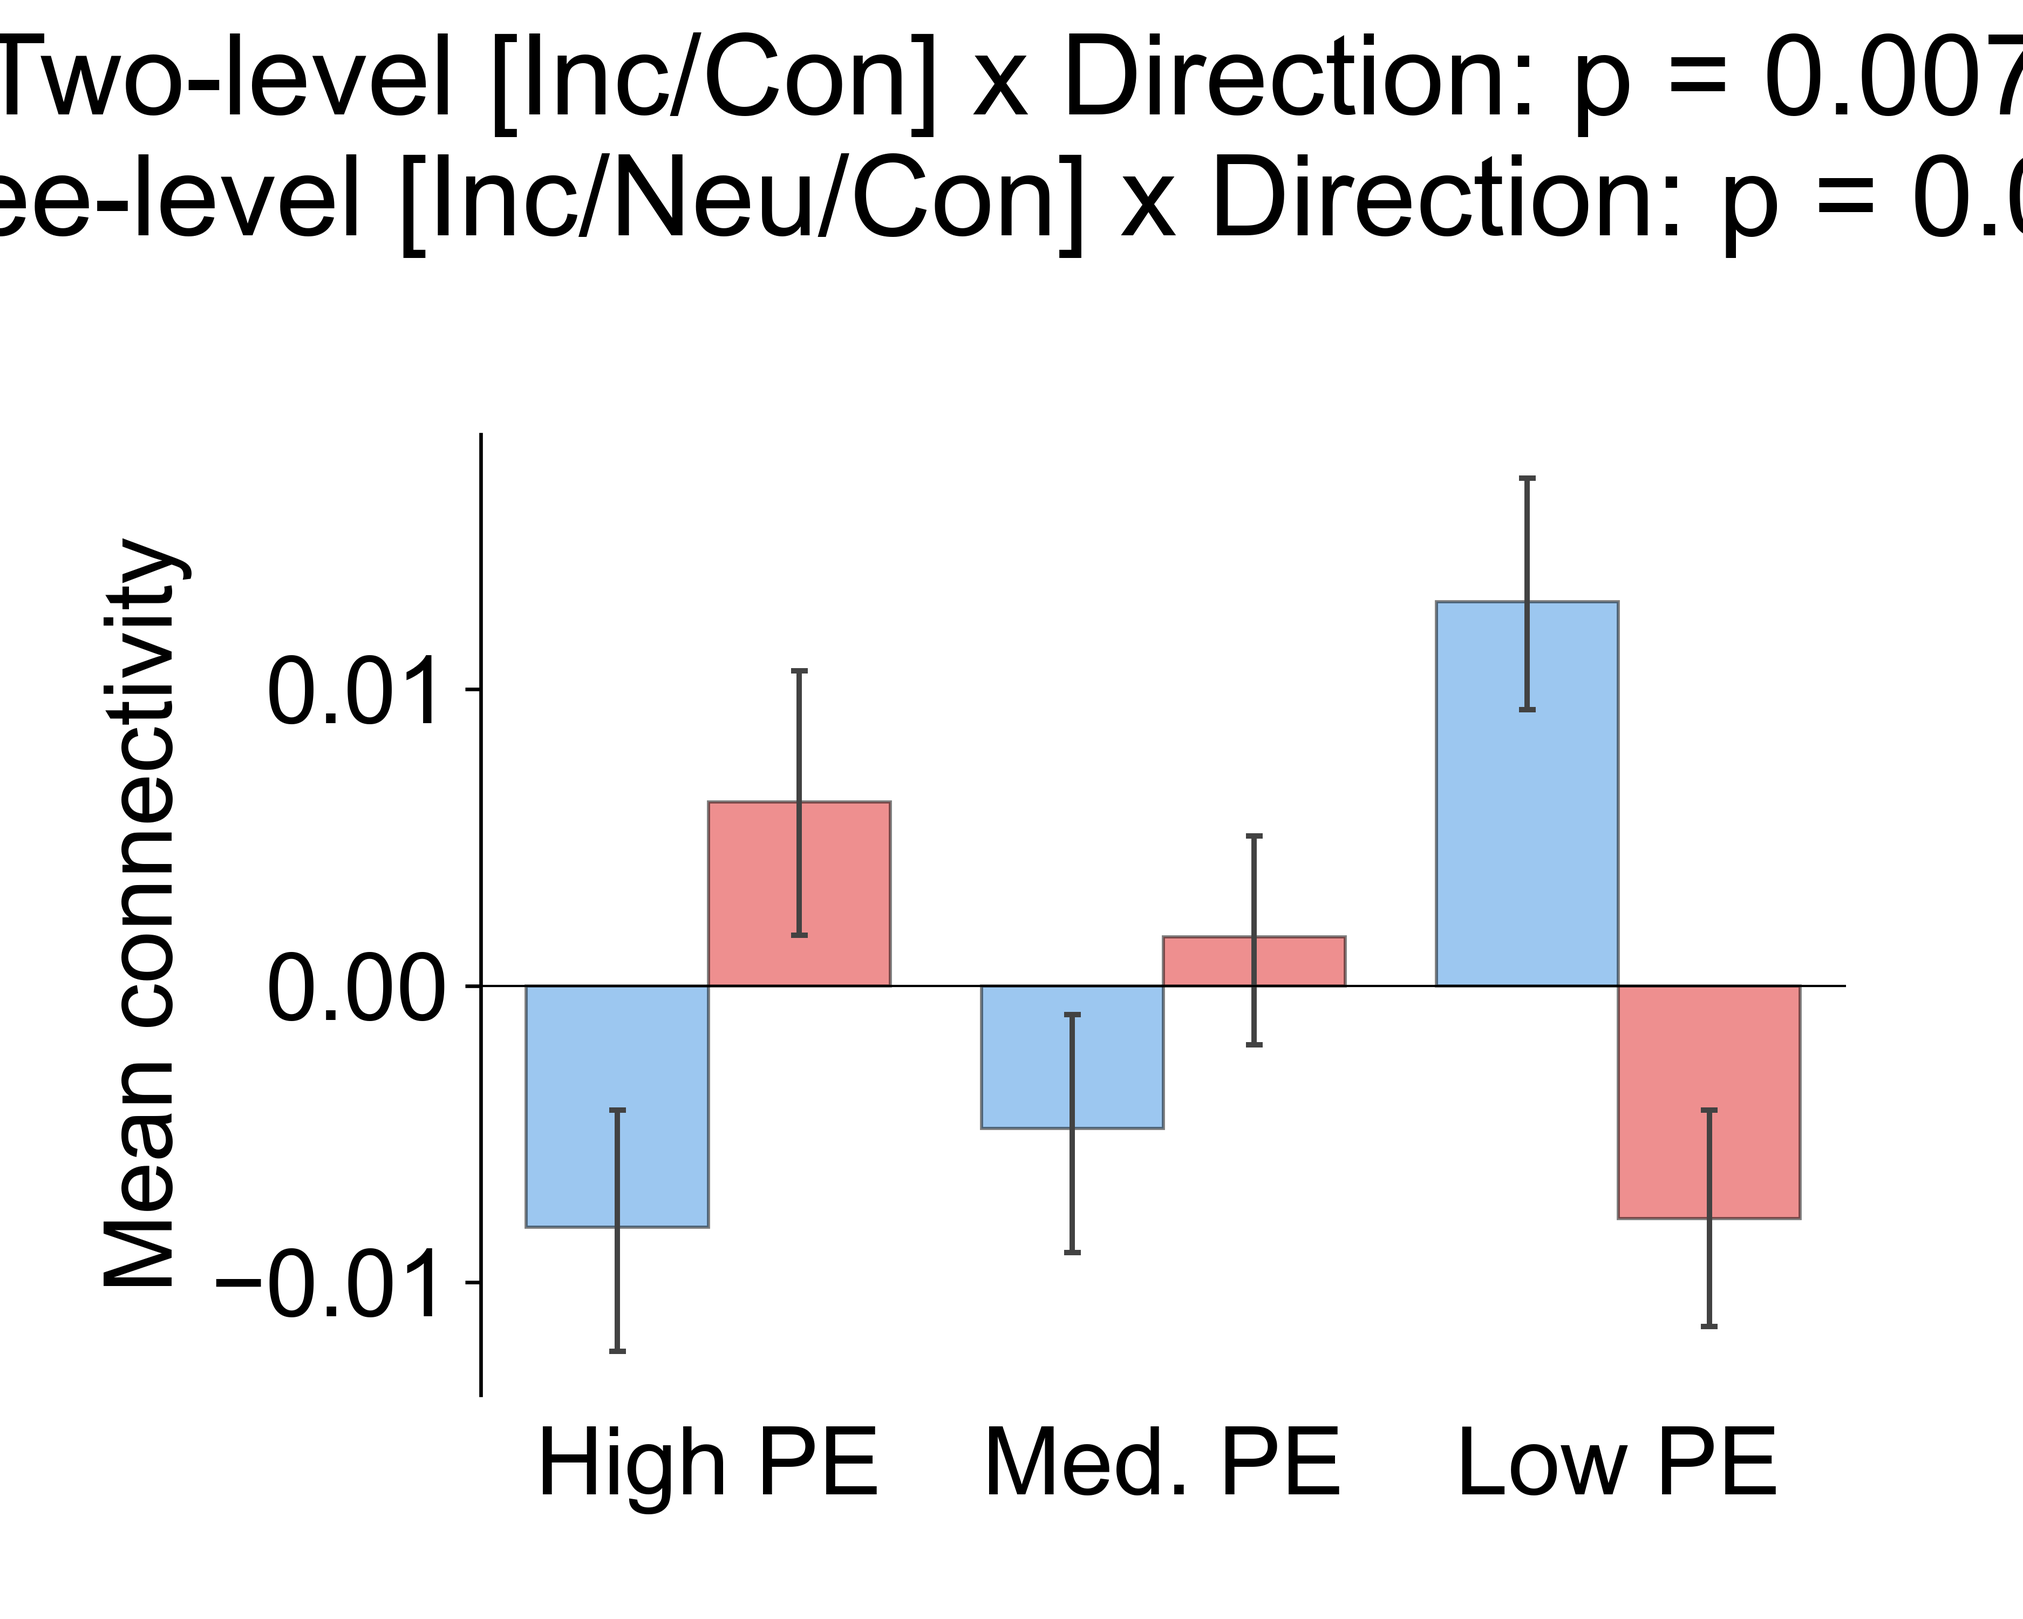
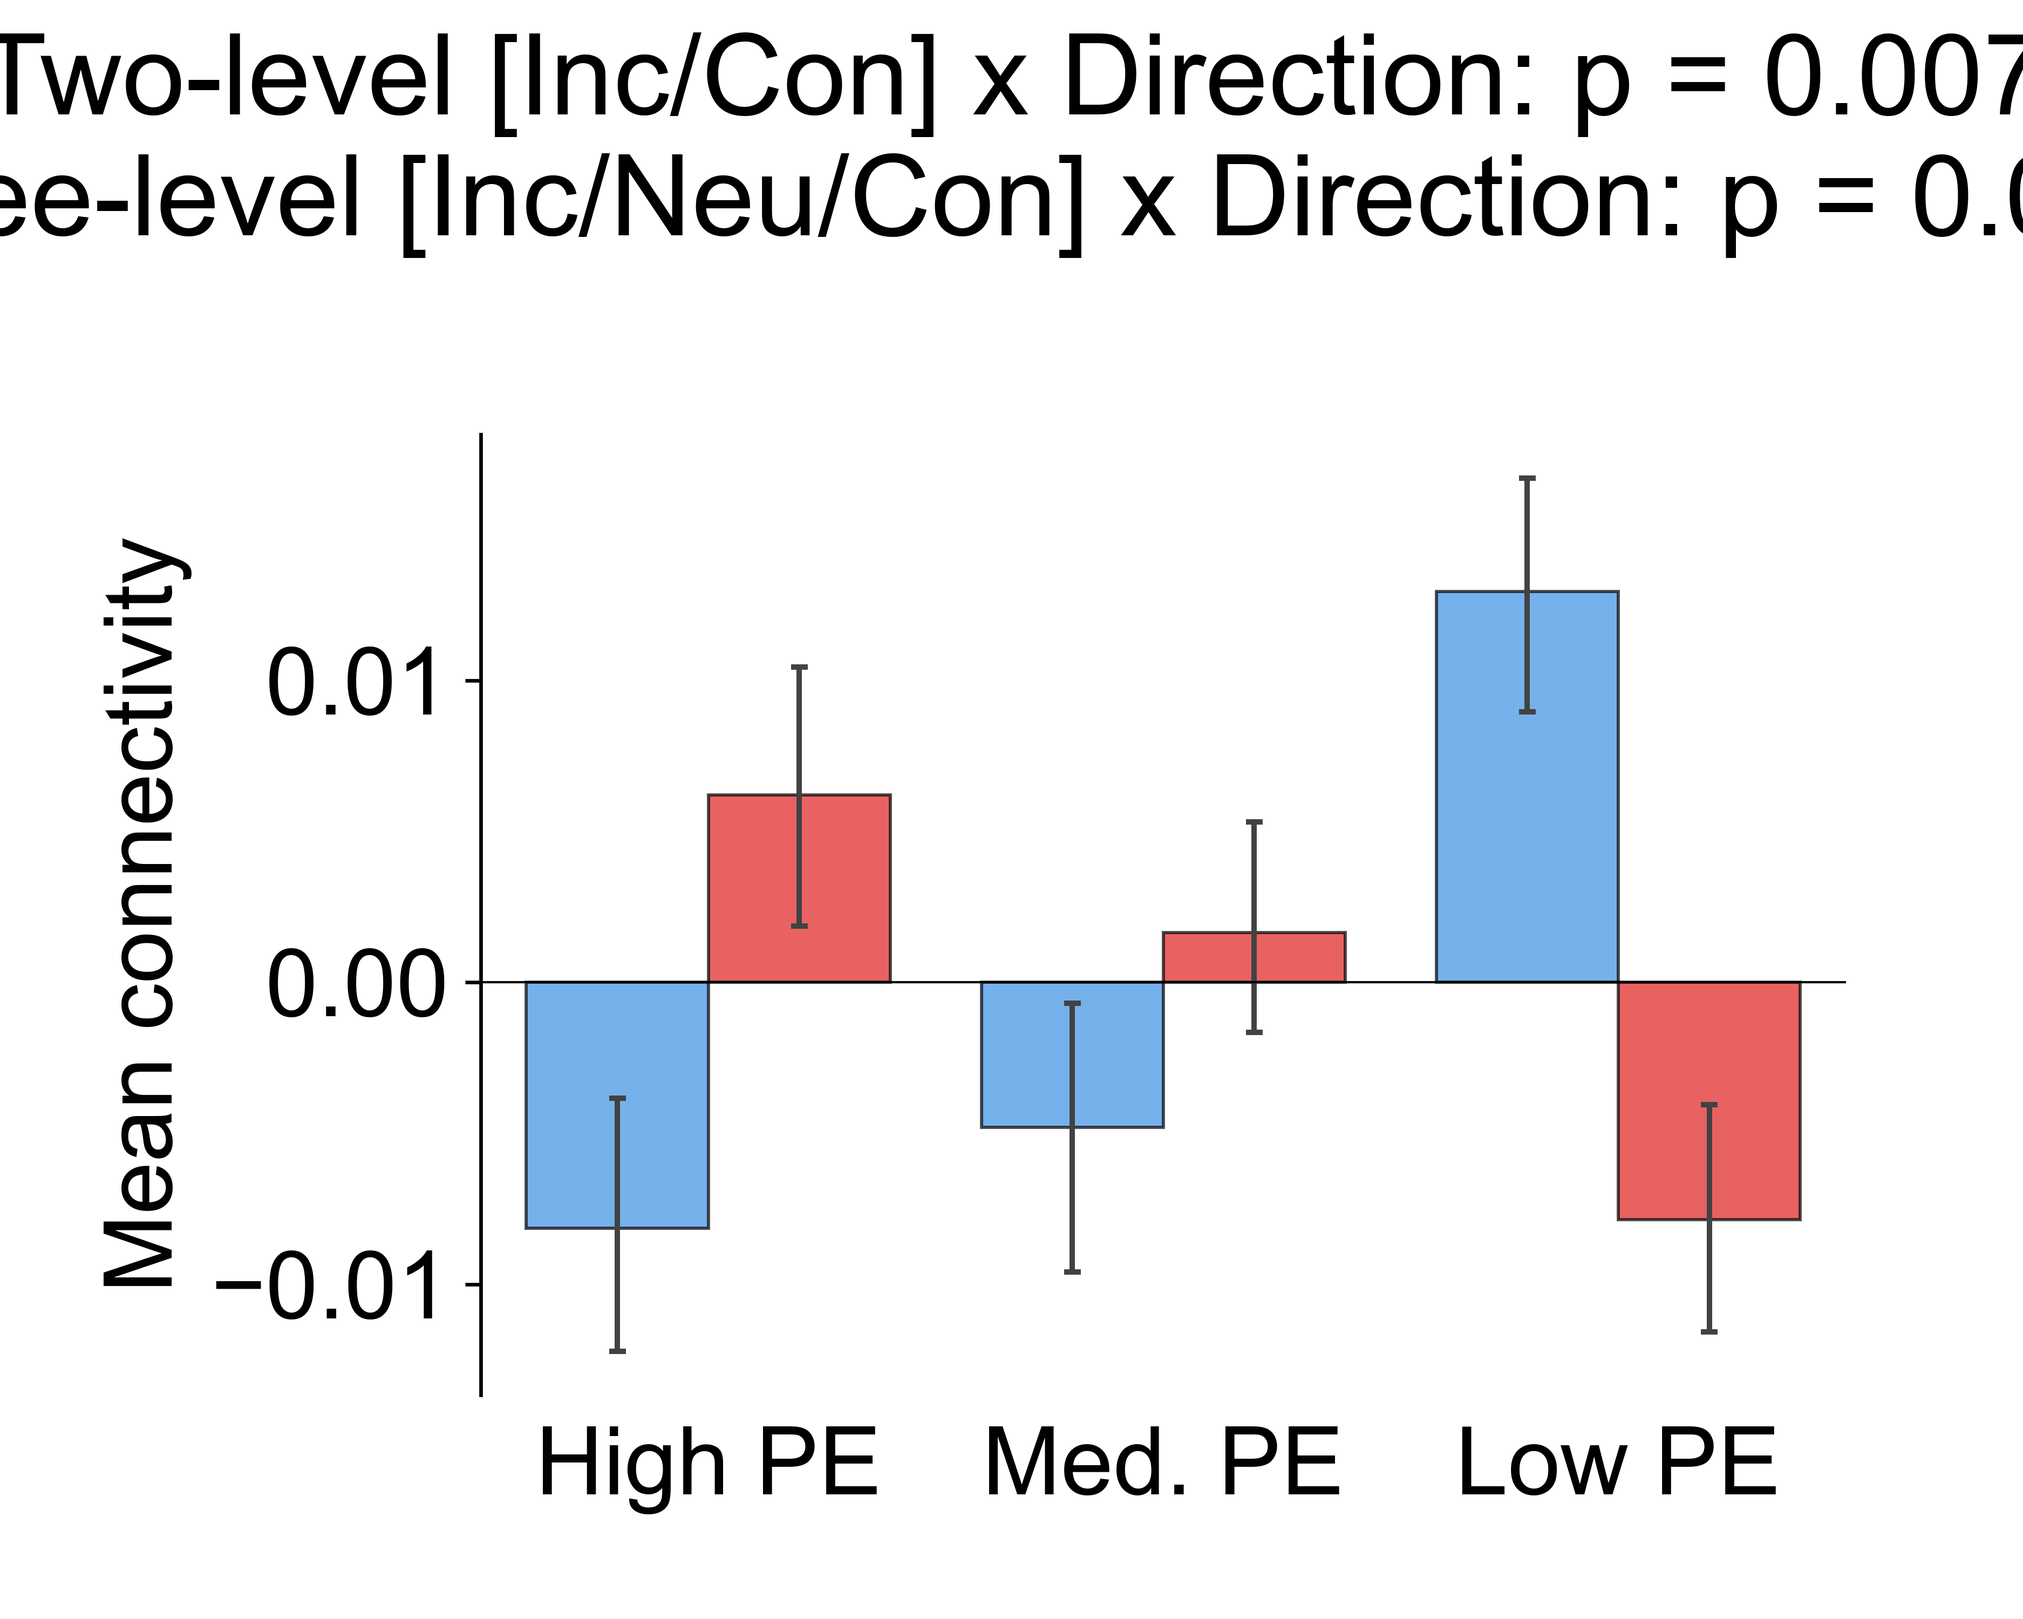
getting the HCP analysis up to 1000 people

Changed region(s): [[0.2497, 0.341, 0.905, 0.775], [0.1248, 0.403, 0.2185, 0.465], [0.1872, 0.589, 0.2185, 0.651]]

diff --git a/HCP_gambling/HCP_rs_x_task_corr.py b/HCP_gambling/HCP_rs_x_task_corr.py
@@ -224,7 +224,7 @@ def get_HCP_task_conn(sns, combine_regions, bilateral,
     #       'drop_first': True, 'both_bhv': True, 'reset_trial0': True}
 
     kw = {'combine_regions': combine_regions, 'bilateral': False, 'neut_as_PE': None,
-          'drop_neut': True, 'only': 'combo', 'num_sns': 1000, 'cont_PE': 0.3,
+          'drop_neut': True, 'only': None, 'num_sns': 1000, 'cont_PE': 0.3,
           'cont_PE_by_event': True, 'regr_M': True, 'lr_separate': True,
           'reg_global': reg_global, 'no_compcor': no_compcor, 'median_split': True,
           'drop_first': True, 'both_bhv': True, 'reset_trial0': True}
@@ -285,25 +285,27 @@ def get_HCP_task(sns, p_d_ant, p_d_pos, p_v_ant, p_v_pos,
 def get_HCP_rs_efs():
     pass
 
-def find_overlapping_sns(reg_global=False, no_compcor=False):
-    # reg_global = True
-    # no_compcor = True
+def find_overlapping_sns(reg_global_task=True, no_compcor_task=True,
+                         reg_global=False, no_compcor=False):
+
     fns_task = os.listdir(r'C:\PycharmProjects\SchemeRep\HCP_gambling\LSA')
-    if reg_global:
+    if reg_global_task:
         fns_task = [fn for fn in fns_task if 'global' in fn]
     else:
         fns_task = [fn for fn in fns_task if 'global' not in fn]
-    if no_compcor:
+    if no_compcor_task:
         fns_task = [fn for fn in fns_task if 'nocc' in fn]
     else:
         fns_task = [fn for fn in fns_task if 'nocc' not in fn]
     fns_task_LR = [fn for fn in fns_task if 'LR' in fn]
     fns_task_RL = [fn for fn in fns_task if 'RL' in fn]
     sns_task_LR = {fn.split('_')[0] for fn in fns_task_LR}
+    print(f'LR task: N = {len(sns_task_LR)}')
     sns_task_RL = {fn.split('_')[0] for fn in fns_task_RL}
+    print(f'RL task: N = {len(sns_task_RL)}')
     sns_task = sns_task_RL.intersection(sns_task_LR)
 
-    fns = os.listdir(r'E:\HCP_RS_clean')
+    fns = os.listdir(r'C:\HCP_RS_clean')
     if reg_global:
         fns = [fn for fn in fns if 'global' in fn]
     else:
@@ -313,12 +315,40 @@ def find_overlapping_sns(reg_global=False, no_compcor=False):
     else:
         fns = [fn for fn in fns if 'nocc' not in fn]
     fns_LR = [fn for fn in fns if 'LR_clean' in fn]
+    print(f'C:\ LR RS: N = {len(fns_LR)}')
     fns_RL = [fn for fn in fns if 'RL_clean' in fn]
+    print(f'C:\ RL RS: N = {len(fns_RL)}')
     sns_rs_LR = {fn.split('_')[0] for fn in fns_LR}
     sns_rs_RL = {fn.split('_')[0] for fn in fns_RL}
     sns_rs = sns_rs_LR.intersection(sns_rs_RL)
+    # sns_overlap = sns_task.intersection(sns_rs)
+
+    fns_E = os.listdir(r'E:\HCP_RS_clean')
+    if reg_global:
+        fns_E = [fn for fn in fns_E if 'global' in fn]
+    else:
+        fns_E = [fn for fn in fns_E if 'global' not in fn]
+    if no_compcor:
+        fns_E = [fn for fn in fns_E if 'nocc' in fn]
+    else:
+        fns_E = [fn for fn in fns_E if 'nocc' not in fn]
+    fns_LR_E = [fn for fn in fns_E if 'LR_clean' in fn]
+    print(f'E:\ LR RS: N = {len(fns_LR_E)}')
+    fns_RL_E = [fn for fn in fns_E if 'RL_clean' in fn]
+    print(f'E:\ RL RS: N = {len(fns_RL_E)}')
+    sns_rs_LR_E = {fn.split('_')[0] for fn in fns_LR_E}
+    sns_rs_RL_E = {fn.split('_')[0] for fn in fns_RL_E}
+    sns_rs_E = sns_rs_LR_E.intersection(sns_rs_RL_E)
+
+    sns_rs.update(sns_rs_E)
+    print(f'Overall RS: N = {len(sns_rs)}')
+
     sns_overlap = sns_task.intersection(sns_rs)
-    print(f'Number of overlapping sns: {len(sns_overlap)}')
+
+    bad_sns = {'263436'}
+    sns_overlap = sorted(list(sns_overlap - bad_sns))
+
+    print(f'Number of overlapping non-bad sns: {len(sns_overlap)}')
     return sns_overlap
 
 def do_analysis(num_test=1_000, ctrl_group=False,
@@ -332,9 +362,9 @@ def do_analysis(num_test=1_000, ctrl_group=False,
     rs_no_compcor = False
 
     sns = find_overlapping_sns()
-    # sns = sorted(sns)[:500]
-    # print(f'{len(sns)=}')
-    # quit()
+
+    sns = sorted(sns)[:1000]
+    print(f'{len(sns)=}')
 
     p_d_ant, p_d_pos, p_v_ant, p_v_pos, p_no = get_quads(skip_other,
                                                          all_roi=all_roi,
@@ -439,16 +469,20 @@ def test_corrs(task_efs_l, rs_efs_l):
         r, p = stats.spearmanr(task_efs, rs_efs)
         t_l.append(r)
     N = len(t_l)
+    M_r = np.nanmean(t_l)
     t, p = stats.ttest_1samp(t_l, 0)
-    print(f'Within-subj: t[{N - 1}] = {t:.2f}, {p=:.3f}')
+    print(f'Within-subj: Mean r = {M_r:.3f}, '
+          f't[{N - 1}] = {t:.2f}, {p=:.3f}')
 
     t_l = []
     for i, (task_efs, rs_efs) in enumerate(zip(task_efs_l, rs_efs_l)):
         r, p = stats.spearmanr(task_efs, rs_efs)
         t_l.append(r)
     N = len(t_l)
+    M_r = np.nanmean(t_l)
     t, p = stats.ttest_1samp(t_l, 0)
-    print(f'Across-subject: t[{N - 1}] = {t:.2f}, {p=:.3f}')
+    print(f'Across-subject: Mean r = {M_r:.3f}, '
+          f't[{N - 1}] = {t:.2f}, {p=:.3f}')
 
 if __name__ == '__main__':
     do_analysis()

diff --git a/HCP_gambling/clean_resting.py b/HCP_gambling/clean_resting.py
@@ -29,12 +29,25 @@ from numba import jit, prange, njit
 import seaborn as sns
 from pathlib import Path
 
-def clean_sn_rs(sn, lr, drive='G', reg_global=False, no_compcor=False):
+def clean_sn_rs(sn, lr, drive='G', reg_global=False, no_compcor=False,
+                out_drive='C'):
     df_motion = load_motion(sn, lr, drive=drive, rs=True)
-    dir_out = r'E:\HCP_RS_clean'
+    dir_out = fr'{out_drive}:\HCP_RS_clean'
+
+    dir_out_C = fr'C:\HCP_RS_clean'
+    dir_out_E = fr'E:\HCP_RS_clean'
 
     glob_str = '_global' if reg_global else ''
     cc_str = '_nocc' if no_compcor else ''
+
+    fp_out_C = fr'{dir_out_C}\{sn}_REST1_{lr}_clean{glob_str}{cc_str}.nii.gz'
+    if os.path.exists(fp_out_C) and os.path.getsize(fp_out_C) > 10_000_000:
+        print(f'Exists (C): {fp_out_C=}')
+        return
+    fp_out_E = fr'{dir_out_E}\{sn}_REST1_{lr}_clean{glob_str}{cc_str}.nii.gz'
+    if os.path.exists(fp_out_E) and os.path.getsize(fp_out_E) > 10_000_000:
+        print(f'Exists (E): {fp_out_E=}')
+        return
 
     fp_out = fr'{dir_out}\{sn}_REST1_{lr}_clean{glob_str}{cc_str}.nii.gz'
     Path(fp_out).parent.mkdir(parents=True, exist_ok=True)
@@ -44,7 +57,7 @@ def clean_sn_rs(sn, lr, drive='G', reg_global=False, no_compcor=False):
 
     fp_rs = fr'{drive}:\HCP_RS_unzipped\{sn}\MNINonLinear\Results\rfMRI_REST1_{lr}\rfMRI_REST1_{lr}.nii.gz'
     fp_mask = fr'{drive}:\HCP_RS_unzipped\{sn}\MNINonLinear\Results\rfMRI_REST1_{lr}\brainmask_fs.2.nii.gz'
-    print(f'Doing: {sn}, {lr}')
+    print(f'Doing: {sn}, {lr}, {fp_out=}')
     t_st = time.time()
     img = image.load_img(fp_rs)
     print(f'\tLoaded rs: {time.time() - t_st:.2f} s')
@@ -74,10 +87,10 @@ def clean_sn_rs(sn, lr, drive='G', reg_global=False, no_compcor=False):
 
 
 def clean_sn_rs_all(easy_override=False, reg_global=False, no_compcor=False,
-                    drive='G'):
+                    drive='G', out_drive='C'):
     sns = os.listdir(fr'{drive}:\HCP_RS_unzipped')
     sns = list(sns)
-    print(f'{len(sns)=}')
+    # print(f'{len(sns)=}')
     sns = sorted(sns)
     # sns = {'203418'}
 
@@ -89,9 +102,10 @@ def clean_sn_rs_all(easy_override=False, reg_global=False, no_compcor=False,
 
     bad_sns = []
     for sn in tqdm(sns, desc='Cleaning RS', position=0, leave=True):
+
         try:
             clean_sn_rs(sn, 'LR', drive=drive, reg_global=reg_global,
-                        no_compcor=no_compcor)
+                        no_compcor=no_compcor, out_drive=out_drive)
         except Exception as e:
             print(f'Error: {sn=}, {e=}')
             bad_sns.append(sn)
@@ -99,7 +113,7 @@ def clean_sn_rs_all(easy_override=False, reg_global=False, no_compcor=False,
     # for sn in tqdm(sns, desc='Cleaning RS', position=0, leave=True):
         try:
             clean_sn_rs(sn, 'RL', drive=drive, reg_global=reg_global,
-                        no_compcor=no_compcor)
+                        no_compcor=no_compcor, out_drive=out_drive)
         except Exception as e:
             print(f'Error: {sn=}, {e=}')
             bad_sns.append(sn)

diff --git a/HCP_gambling/HCP_vendor.py b/HCP_gambling/HCP_vendor.py
@@ -40,7 +40,7 @@ def bar_vendor(conn_highs, conn_lows, combine_regions, bilateral):
         df[f'{ef}_diff'] = df[f'high_{ef}'] - df[f'low_{ef}']
         t, p = stats.ttest_rel(df[f'high_{ef}'], df[f'low_{ef}'])
         N = np.sum(~np.isnan(df[f'high_{ef}']))
-        print(f'{ef}: t[{N - 1}] = {t:.2f}')
+        print(f'{ef}: t[{N - 1}] = {t:.2f}, {p=:.4f}')
 
     # M_PA = (df['high_PA'] + df['low_PA']) / 2
     # df['high_PA'] -= M_PA
@@ -68,7 +68,7 @@ def bar_vendor(conn_highs, conn_lows, combine_regions, bilateral):
                         # errwidth=1.5,
                         edgecolor='k',
                         # capsize=0.1, height=4,
-                        alpha=0.5, linewidth=.7,#.7,
+                        alpha=0.7, linewidth=.7,#.7,
                         errwidth=1.2,
                         capsize=0.05,
                         # palette=sns.color_palette()
@@ -80,6 +80,8 @@ def bar_vendor(conn_highs, conn_lows, combine_regions, bilateral):
     g.set_xticklabels(['High PE', 'Low PE'])
     plt.tight_layout()
     plt.xlabel('')
+    plt.plot([-.5, 1.5], [0, 0], 'k', linewidth=.5)
+    plt.xlim(-.5, 1.5)
     fp = fr'result_pics/other/Study_1B_vendor.png'
     plt.savefig(fp, dpi=600)
     plt.show()
@@ -95,6 +97,9 @@ def get_sn_roi_ar(sn, lr, combine_regions=False, bilateral=False,
     cc_str = '_nocc' if no_compcor else ''
     if rs:
         fp_lsa_lr = fr'E:\HCP_RS_clean\{sn}_REST1_{lr}_clean{glob_str}{cc_str}.nii.gz'
+        if not os.path.exists(fp_lsa_lr):
+            fp_lsa_lr = fr'C:\HCP_RS_clean\{sn}_REST1_{lr}_clean{glob_str}{cc_str}.nii.gz'
+            assert os.path.exists(fp_lsa_lr)
     else:
         fp_lsa_lr = fr'C:\PycharmProjects\SchemeRep\HCP_gambling\LSA\{sn}_{lr}_LSA{glob_str}{cc_str}.nii'
     try:
@@ -371,7 +376,7 @@ def get_combo(kw):
     return conn_highs, conn_lows, sns
 
 
-def test_vendor(combine_regions=True, bilateral=False, corr_z=True,
+def test_vendor(combine_regions=False, bilateral=False, corr_z=True,
                 sub_ROI_expected=False):
 
     # kw = {'combine_regions': combine_regions, 'bilateral': bilateral,
@@ -487,7 +492,8 @@ def test_vendor(combine_regions=True, bilateral=False, corr_z=True,
     # quit()
     N = itr.shape[0]
     nans = np.sum(np.isnan(itr))
-    print(f't[{N - nans - 1}/{N - 1}] = {t_final:.2f}, {p=:.3f}')
+    F = t_final ** 2
+    print(f't[{N - nans - 1}/{N - 1}] = {t_final:.2f}, {p=:.4f}, F = {F:.2f}')
     print(kw)
 
 

diff --git a/utils.py b/utils.py
@@ -244,6 +244,8 @@ def make_title_str(pre_str, key, age, DNN_layer, semantic,
 def load_ni_w_nan_fps(fps):
     nan_idxs = pd.isna(fps)
     good_idxs = ~nan_idxs
+
+    assert os.getcwd() == r'C:\PycharmProjects\SchemeRep', f'{os.getcwd()=}'
     if nan_idxs.any():
         img = image.load_img(fps[good_idxs]).get_fdata()
         blank = np.full((img.shape[0], img.shape[1], img.shape[2], len(fps)),
@@ -252,7 +254,6 @@ def load_ni_w_nan_fps(fps):
         img = blank
     else:
         img = image.load_img(fps).get_fdata()
-    # num_goods = np.sum(~nan_idxs)
     return img, good_idxs
 
 def get_RSA_fn(inc, age, semantic, DNN_layer, fp_fMRI_col='obj_fMRI',

diff --git a/connRSA/conn_analyze_IRAFs.py b/connRSA/conn_analyze_IRAFs.py
@@ -4,7 +4,7 @@ from datetime import datetime
 from connRSA.old.conn_plot import pie_charts
 from connRSA.conn_report import lmer_stats
 
-os.chdir(r'H:\PycharmProjects_H\SchemeRep')
+os.chdir(r'C:\PycharmProjects\SchemeRep')
 
 from collections import defaultdict
 
@@ -12,7 +12,7 @@ from conn_utils import get_BNA_ROIs
 from organize_bhv import get_trial_info
 from single_trial_conn import run_settings
 from conn_report import report_results
-from old.networks import prep_networks
+# from old.networks import prep_networks
 from utils import pickle_wrap
 import pandas as pd
 import numpy as np

diff --git a/connRSA/regeightlight_v3.py b/connRSA/regeightlight_v3.py
@@ -3,6 +3,7 @@ from collections import defaultdict
 from time import time
 import numpy as np
 from matplotlib import pyplot as plt
+from nilearn import image
 
 import utils
 
@@ -488,6 +489,11 @@ def get_t(searched_all):
 
 
 if __name__ == '__main__':
+    # fp_test = r'C:\PycharmProjects\SchemeRep\fMRI_in\127\BL_rerun7\BL/BL_sub127_run1_trial27_subset1_pairID9.nii'
+    # img = image.load_img(fp_test)
+    # print(img)
+    # quit()
+
     # TODO: calculate number of voxels contributing to each searchlight
     #   percentage filled by location...
 

diff --git a/stim.py b/stim.py
@@ -188,7 +188,7 @@ def norm_vectors(d_all, vecs_obj, vecs_scn, norm_by_type, objs):
 def get_semantic_vectors(normalize=True):
     # fit using python 3.11
     norm_string = '_norm' if normalize else ''
-    fp_vecs = rf'H:\PycharmProjects_H\SchemeRep\cache/schemerep_sem_vecs{norm_string}.pkl'
+    fp_vecs = rf'C:\PycharmProjects\SchemeRep\cache\schemerep_sem_vecs{norm_string}.pkl'
     d_vecs = pickle_wrap(lambda: get_semantic_vectors_(normalize), fp_vecs,
                          easy_override=False, verbose=-1)
     return d_vecs

diff --git a/connRSA/single_trial_conn.py b/connRSA/single_trial_conn.py
@@ -1,5 +1,5 @@
 import os
-os.chdir(r'H:\PycharmProjects_H\SchemeRep')
+os.chdir(r'C:\PycharmProjects\SchemeRep')
 
 from tqdm import tqdm
 from pprint import pprint
@@ -10,7 +10,7 @@ from conn_ERS import ERS_sn
 from conn_report import report_results
 from connRSA.old.conn_old import visualize_region_matrix, visualize_ROIs, RSA_ROI, RSA_ROI_pairwise, RSA_edgewise
 from conn_utils import get_BNA_ROIs
-from old.networks import prep_networks
+# from old.networks import prep_networks
 from org_sns import get_sns
 import numpy as np
 

diff --git a/connRSA/searchlight_v2.py b/connRSA/searchlight_v2.py
@@ -9,7 +9,9 @@ from connRSA.conn_utils import mask_img
 from connRSA.jit_funcs import evaluate_models_searchlight_spear, evaluate_models_searchlight, jit_searchlight_RDMs, \
     jit_volume_searchlight, do_int_downsample, do_int_upsample, convert_back_to_img, prep_data_Ms
 from connRSA.searchlight_plot import plot_t
-from old.networks import prep_networks
+from networks.old.networks import prep_networks
+
+# from old.networks import prep_networks
 
 t_st = time()
 from functools import cache

diff --git a/networks/plot_3way_bar.py b/networks/plot_3way_bar.py
@@ -228,7 +228,7 @@ def plot_con_vs_inc(df_agg, skip_plot=False, mean_norm=True):
                         # errwidth=1.5,
                         edgecolor='k',
                         # capsize=0.1, height=4,
-                        alpha=0.5, linewidth=.7,#.7,
+                        alpha=0.7, linewidth=.7,#.7,
                         errwidth=1.2,
                         capsize=0.05,
                         # palette=sns.color_palette()
